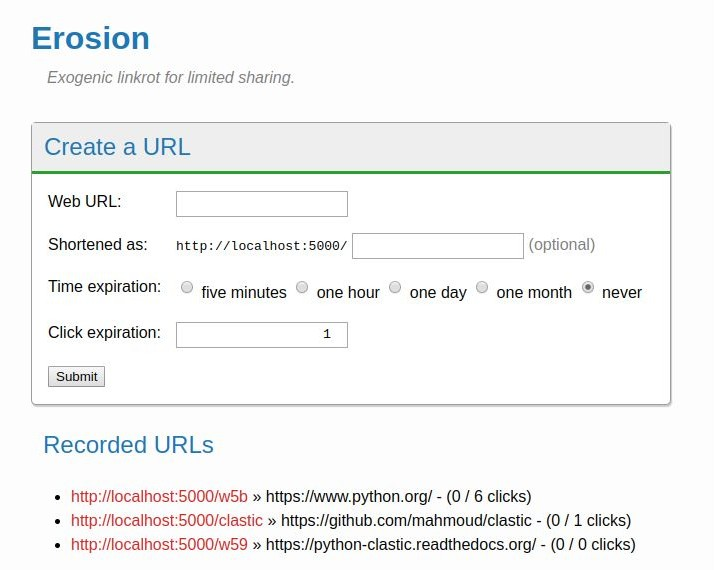
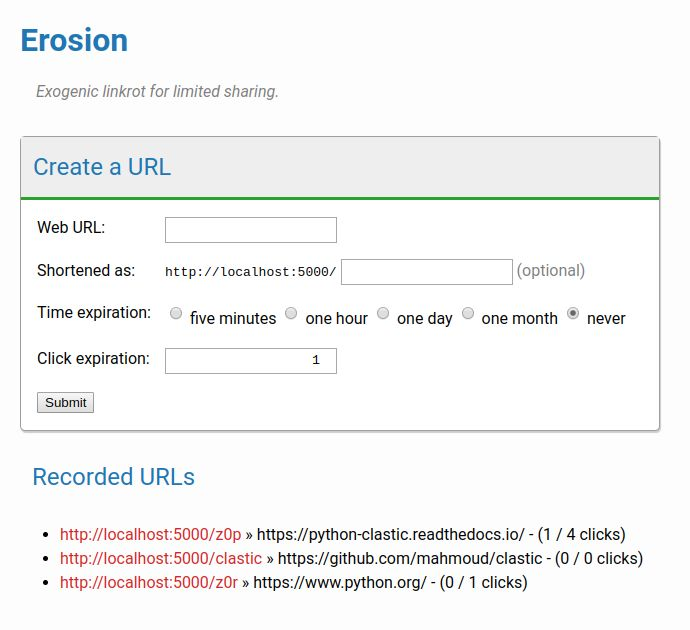
add doctests for alias encoding
also update the screenshot accordingly

diff --git a/examples/erosion2/storage.py b/examples/erosion2/storage.py
@@ -4,11 +4,20 @@ import string
 import time
 
 
-_CHARS = sorted(string.ascii_lowercase + string.digits)
+_CHARS = sorted(set(string.ascii_lowercase + string.digits) - {"l"})
 _N_CHARS = len(_CHARS)
 
 
 def _encode_id(num):
+    """Convert an integer to a short string.
+
+    >>> _encode_id(41660)
+    'z0a'
+    >>> _encode_id(4166000)
+    '2s5tk'
+    >>> _encode_id(41660 + int(1e7))  # 10 million links later
+    '6p79k'
+    """
     alias = ""
     n = abs(num)
     while n > 0:
